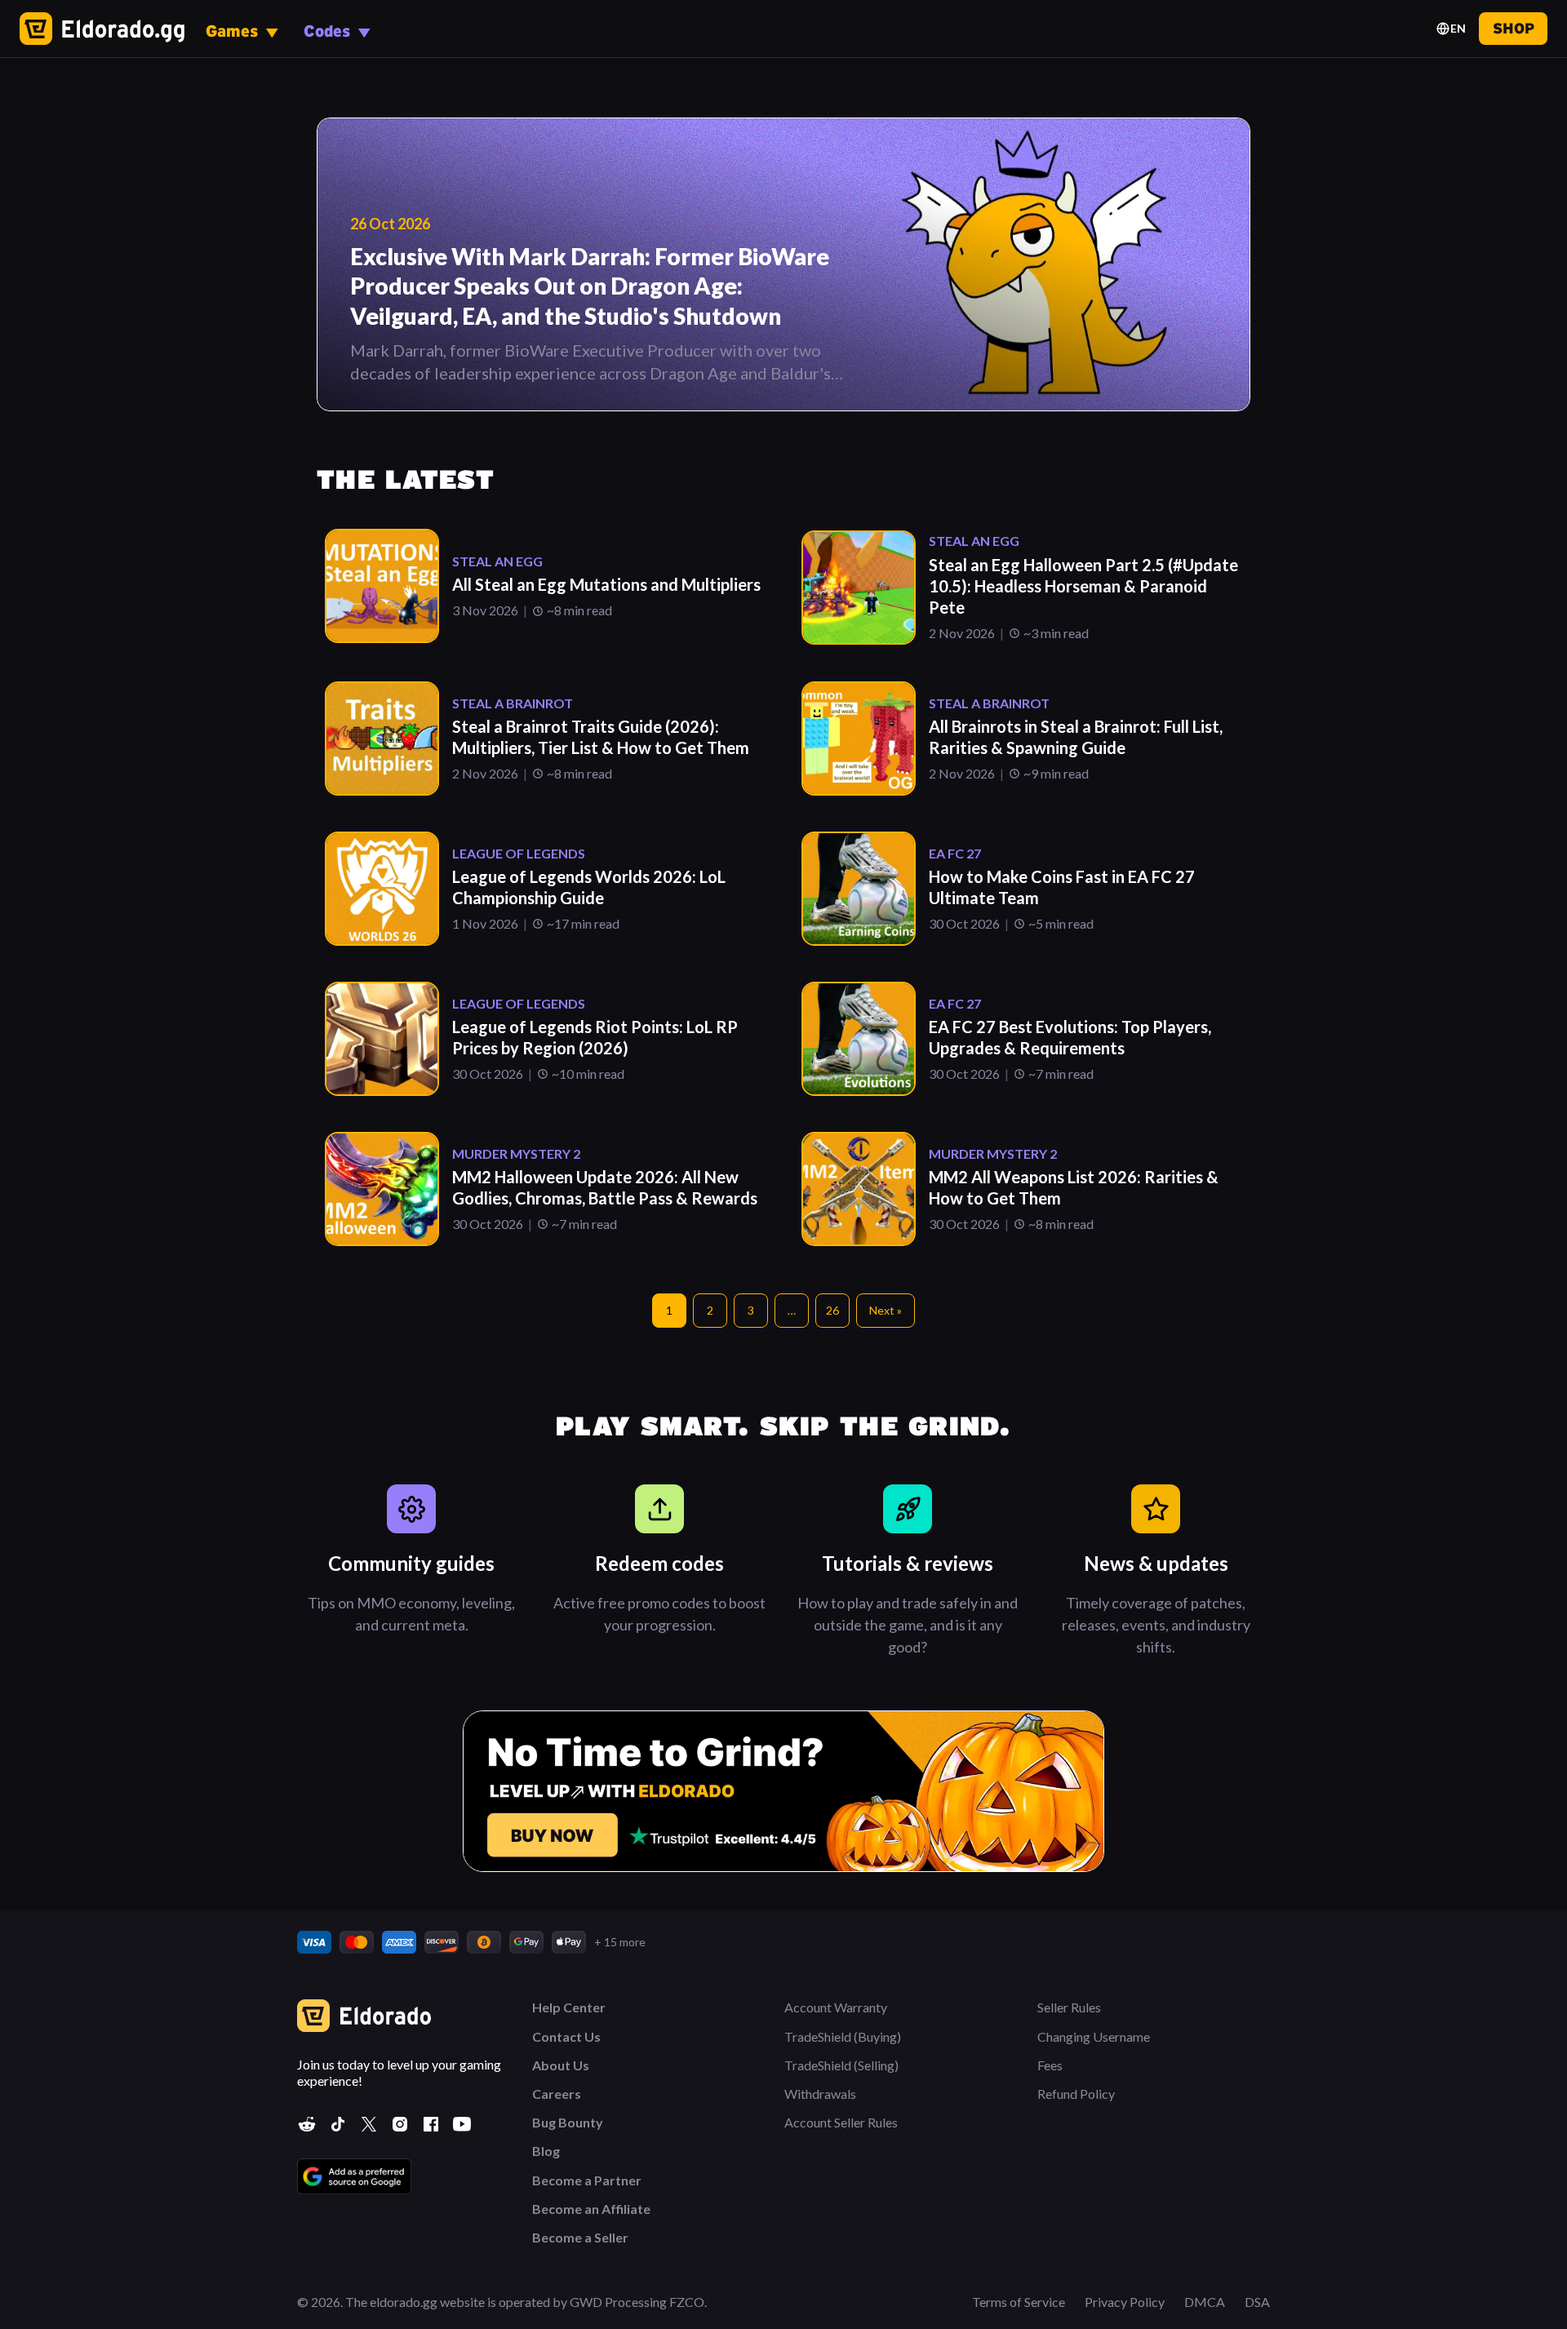
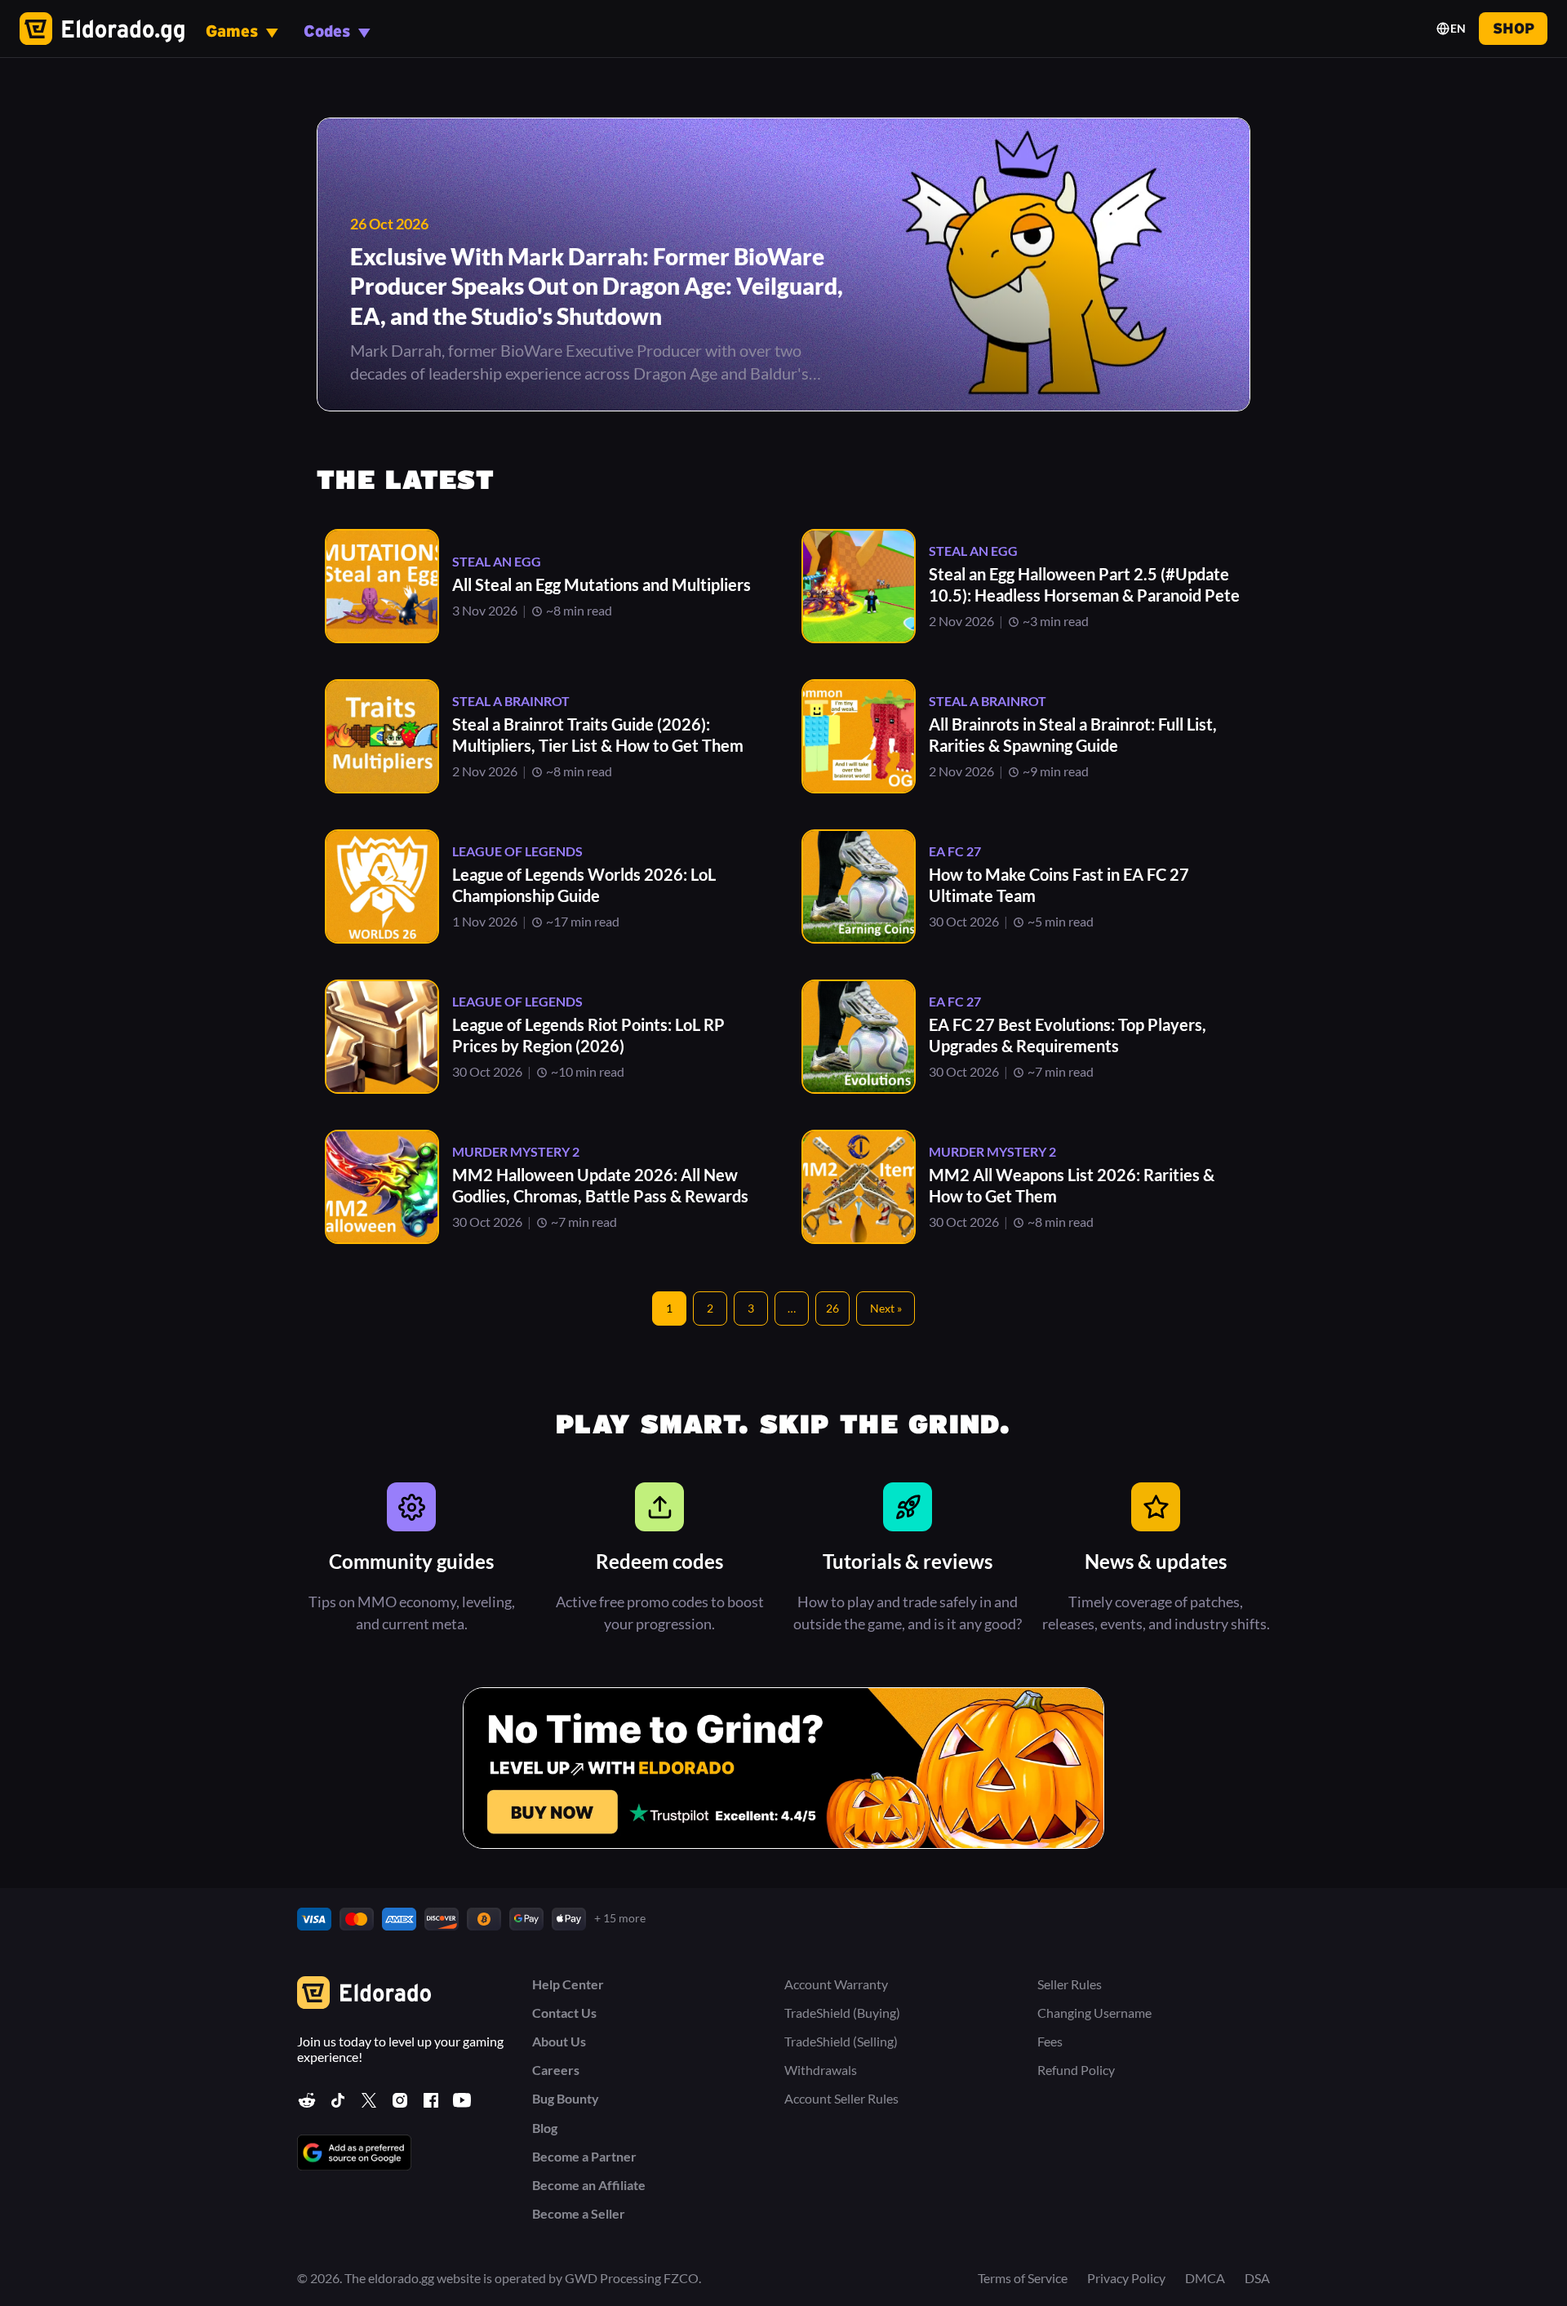
docs(ui): session 12c checkpoint — /blog live-verified pixel pass merged over parallel session, Lato Eldorado font metric parity, pushes verified

diff --git a/src/app/globals.css b/src/app/globals.css
@@ -54,13 +54,45 @@
   /* contact help icon tile rgb(252,231,182) == guarantee token;
      stats label gray rgb(138,134,157) == bloggray token */
 
-  --font-sans: var(--font-lato), "Lato", sans-serif;
+  --font-sans: "Lato Eldorado", var(--font-lato), "Lato", sans-serif;
 }
 
 body {
   background: var(--color-page);
   color: var(--color-ink);
   font-family: var(--font-sans);
+}
+
+/* Lato Eldorado — Lato 400/700/900 woff2 URLs VERBATIM from the blog
+   capture's font-face appendix (the exact files eldorado.gg serves).
+   Needed because Google's Lato (next/font) renders ~3% wider than
+   Eldorado's Lato and flipped the wrap of the longest blog card title
+   (canvas probe: same 40-char string = 379px vs live 368px). First in
+   --font-sans everywhere; var(--font-lato) (next/font) stays as the
+   safe fallback if the bucket is unreachable. */
+@font-face {
+  font-display: swap;
+  font-family: "Lato Eldorado";
+  font-style: normal;
+  font-weight: 400;
+  src: url("https://storage.googleapis.com/download/storage/v1/b/prd-storytodesign.appspot.com/o/h2d-ext-asset%2Ffcd4136085f2a03481d9958cc6793a5ed98e714c.woff2?generation=1778054403296909&alt=media")
+    format("woff2");
+}
+@font-face {
+  font-display: swap;
+  font-family: "Lato Eldorado";
+  font-style: normal;
+  font-weight: 700;
+  src: url("https://storage.googleapis.com/download/storage/v1/b/prd-storytodesign.appspot.com/o/h2d-ext-asset%2F2ac78601179c3a63ba3f3f3081556b12ddcaf655.woff2?generation=1778057801069581&alt=media")
+    format("woff2");
+}
+@font-face {
+  font-display: swap;
+  font-family: "Lato Eldorado";
+  font-style: normal;
+  font-weight: 900;
+  src: url("https://storage.googleapis.com/download/storage/v1/b/prd-storytodesign.appspot.com/o/h2d-ext-asset%2F898d9808304dc157f5dcb18ca169ec6e2b96b3d7.woff2?generation=1778150791171972&alt=media")
+    format("woff2");
 }
 
 /* interstate — blog headings/buttons font (800/900 woff2 URLs verbatim from

diff --git a/docs/ui-ux/ELDORADO-HOME-IMPLEMENTATION.md b/docs/ui-ux/ELDORADO-HOME-IMPLEMENTATION.md
@@ -11,12 +11,12 @@ actual files and Git history — never trust previous AI claims.
 - Current page: Home + desktop mega menu + `/efootball-accounts` +
   `/xbox-game-pass` + `/xbox-gift-card` + product-single
   `/efootball-accounts/oa/[id]` + dashboard `/dashboard/offers/Account`
-  + `/login` + `/blog` (session 12, user's own commits) + `/about-us` +
-  `/contact-us` + `/bug-bounty` (NEW session 12b — static content pages
-  per the user-pushed captures; verified and pushed)
-- Current section: session 12b — about-us / contact-us / bug-bounty
-  COMPLETE (decoded snapshots + live hero probe + visual self-review;
-  all three captures are 1920-only with no rendered thumbnail)
+  + `/login` + `/blog` (session 12 + live-verified pixel pass session
+  12c) + `/about-us` + `/contact-us` + `/bug-bounty` (session 12b)
+- Current section: session 12c — `/blog` live-verified pixel pass +
+  parallel-session merge COMPLETE (header/featured/cards/highlights/
+  footer matched to live at 1920/1536/390 via DOM + pixel probes;
+  section offsets within ±2px of live, page height within 9px; pushed)
 - Reference files:
   - Blog capture (session 12, user-pushed):
     `ui ux/blog/www_eldorado_gg_blog_1920w_390w_1536w_default.make`
@@ -235,6 +235,53 @@ actual files and Git history — never trust previous AI claims.
 
 ## Section log (append one block per completed section)
 
+- 2026-11-04 (session 12c) — `/blog` live-verified pixel pass, merging a
+  PARALLEL session's blog work (origin 219c24b fixed the root font bug
+  — next/font variable moved to `<html>`, every page had silently
+  rendered the system stack — and shipped its own /blog pass + a
+  Footer showLang prop) with this session's pixel-measured corrections.
+  Recovery first: cloned, synced at 3d2ab32, verified clean; verified
+  the earlier chat-link recovery (CHAT-RECOVERY-NOTE.md) still holds.
+  Verification method: side-by-side strips (scripts/compare_blog_strips.py)
+  + DOM probes (scripts/probe_blog_*.js) + PIXEL scans of the committed
+  live-blog-390.png (hairlines at y=70/148, Games/Codes text rows at
+  y=102-114, header totals 149px). Fixes, one verified build per batch:
+  (1) header mobile rebuilt — logo icon FIRST then burger (live order),
+  EN shows caret and NO globe <1024, centered 20px Games/Codes in 55px
+  buttons with their own hairline, container px-4 <640; header stays
+  fixed at all widths (origin model) and the section clears it via
+  pt-[147px] <640 / pt-20 @640-1023 / pt-[90px] lg+ (featured top ≈201/
+  ≈135/≈145 = live at all three bands). (2) featured: 2-line clamp on
+  the <p> (clamping the wrapper div does nothing under Chrome's
+  -webkit-box aliasing), capture overlay padding px-10 py-8 @1920,
+  mobile 365px card + p-4 + 24/31.2 bold-700 title + 16px date +
+  18/25.2 excerpt. (3) cards: 110px image, 14px category <640, flex-1
+  text column (384px like live; without it the column shrank to
+  max-content and the longest title wrapped one word early).
+  (4) highlights: px-4 container <768 (live hlGrid 358px vs cardsUl
+  342px), h3 24/36 tracking .96 + mb-32, titles 18/23.4.
+  (5) pagination min-w-[42px] (live pill 42×42). (6) BlogFooter — the
+  blog capture footer is NOT the marketplace footer: title-case 16px
+  links (Help Center…Become a Seller), 1240px container, no language
+  selector, px-4 <768, last-3 payment icons hidden <768 (live shows
+  Visa/MC/Amex/Discover + "15 more" in one row); Google badge 140×44.
+  (7) FONT METRIC PARITY: Google Lato (next/font) renders ~3% wider
+  than Eldorado's Lato (canvas probe: same 40-char string 379px vs
+  live 368px) — registered "Lato Eldorado" @font-face 400/700/900 from
+  the blog capture's font-face appendix URLs (all 200) first in
+  --font-sans; next/font Lato stays as fallback. After the swap the
+  longest card title wraps in 2 lines exactly like live and page
+  height @1920 = 2825 vs live 2824. Rebase note: push rejected twice
+  (user pushes concurrently) — fetch + rebase, conflicts resolved by
+  keeping the origin root-cause font fix + fixed-header model and this
+  session's pixel-measured internals (no force). Verification:
+  overflow=0 at 390/768/1024/1536/1920, 0 console errors, 0 broken
+  images, burger drawer open/close OK, build green with all routes
+  static, section offsets @390 within ±2px of live (grid +26px over 10
+  cards, footer −55px), total page height within 9px of a same-day
+  live load (live itself fluctuates ±110 between loads). Screenshots +
+  comparison strips committed under docs/ui-ux/screenshots/session12/.
+
 - 2026-11-04 (session 12) — Blog landing page `/blog`, implementing the
   user-pushed blog .make capture. Recovery first: fresh sandbox, cloned
   the repo, verified local == remote (9f8eba4) with a clean tree; the
@@ -451,14 +498,14 @@ actual files and Git history — never trust previous AI claims.
 
 ## Backup Status
 
-- Last successful push timestamp: 2026-11-04, session 12b
-- Hash of last pushed commit: `a1dae56` (session-12b chain: a26544c
-  decoded snapshots → a1dae56 static pages implementation + doc;
-  rebased over the user's concurrent blog commits; push verified by
-  empty `git log origin/main..HEAD`)
+- Last successful push timestamp: 2026-11-04, session 12c
+- Hash of last pushed commit: the session-12c chain — `1fe7994`
+  (/blog live-verified pixel pass + parallel-session merge, rebased
+  over origin session-12/12b) + this doc commit; push verified by
+  empty `git log origin/main..HEAD` after every push
 - Uncommitted changes: none expected after this doc commit
 - Unpushed commits: none
-- Push auth: the session-11 PAT lives in the origin URL in this
+- Push auth: the session-12c PAT lives in the origin URL in this
   sandbox only (transient; never committed). Future sessions without a
   token need a fine-grained PAT (Contents: read/write) or pushes fail
   with "could not read Username for 'https://github.com'". The user
